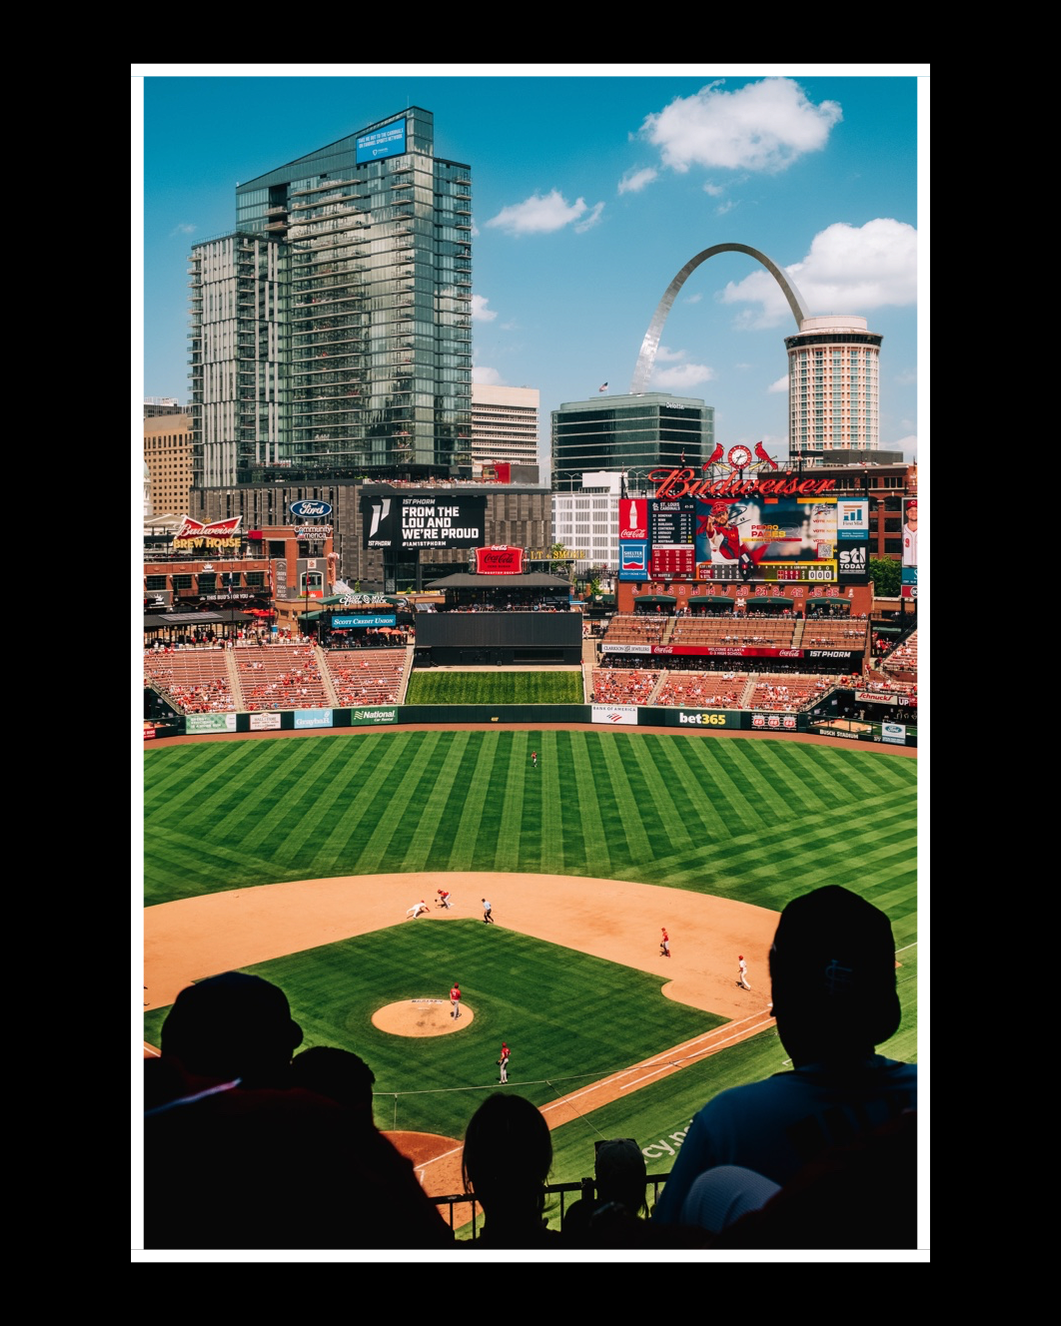
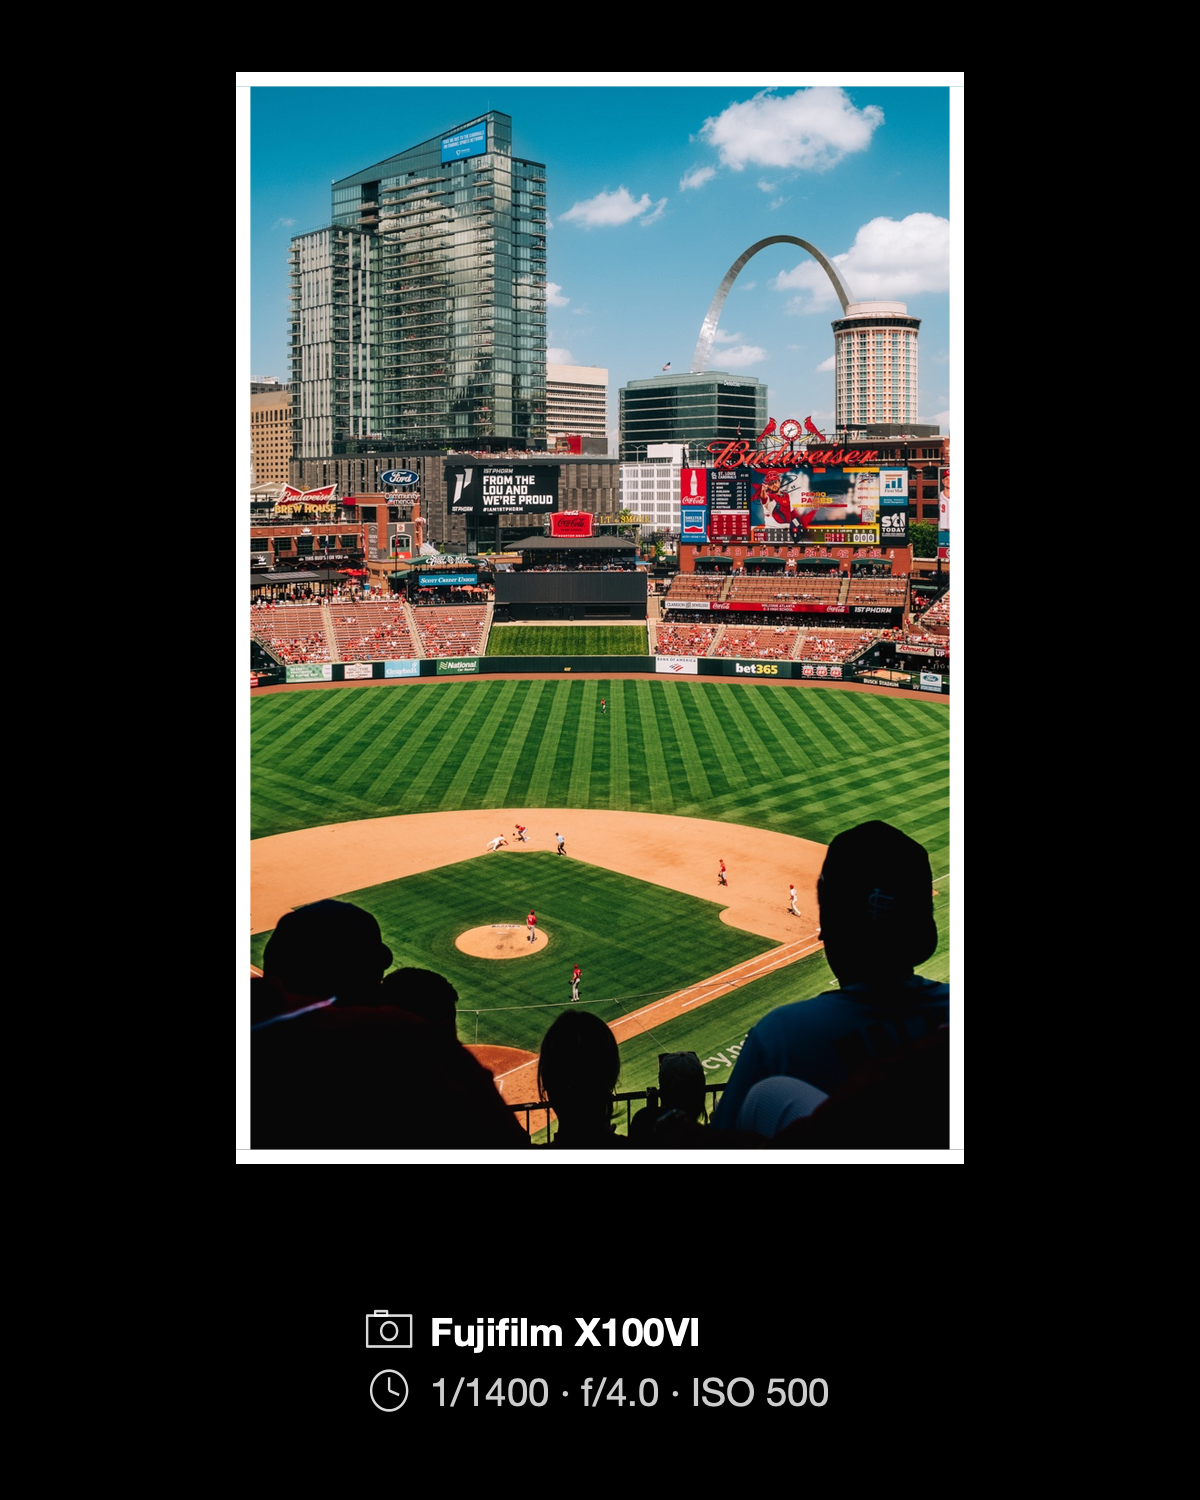
Restore Decks layout and add camera details to baseball example

diff --git a/site/decks/index.html b/site/decks/index.html
@@ -18,7 +18,7 @@
 <link rel="icon" href="/decks/assets/icon.png">
 <link rel="stylesheet" href="/assets/apps.css">
 <link rel="stylesheet" href="/assets/family.css">
-<link rel="stylesheet" href="/decks/assets/site.css?v=43-intro-details">
+<link rel="stylesheet" href="/decks/assets/site.css?v=43-gallery">
 </head>
 <body class="app-decks decks-home">
 <a class="skip-link" href="#main">Skip to content</a>
@@ -38,17 +38,13 @@
 <a class="primary-action" href="https://testflight.apple.com/join/SAMjeMy5">Try Decks on TestFlight</a>
 <p class="availability">Available in beta · iOS and iPadOS 18 or later</p>
 </div>
-<div class="intro-examples" aria-label="Photos with camera details made in Decks">
-<figure><a href="assets/build43-camera-intro-white.webp" aria-label="View autumn photograph with camera details at full size"><img src="assets/build43-camera-intro-white.webp" width="1200" height="1500" fetchpriority="high" alt="An autumn woodland photograph on white with its camera, lens, and exposure details below"></a></figure>
-<figure><a href="assets/build43-camera-intro-black.webp" aria-label="View espresso photograph with camera details at full size"><img src="assets/build43-camera-intro-black.webp" width="1200" height="1500" alt="An espresso photograph on black with a white border and its camera, lens, and exposure details below"></a></figure>
-</div>
 </section>
 
 <section id="frames" class="examples-section" aria-labelledby="frames-heading">
 <div class="section-heading"><h2 id="frames-heading">Choose a background and frame.</h2><p>Use white, black, or a blurred version of your photo. Add a border and choose its color and width.</p></div>
 <div class="frame-gallery">
 <figure><a href="assets/build43-frame-white.webp" aria-label="View white background at full size"><img src="assets/build43-frame-white.webp" width="1200" height="1500" fetchpriority="high" alt="An In-N-Out Burger restaurant centered on a white background"></a><figcaption>White background</figcaption></figure>
-<figure><a href="assets/build43-frame-black.webp" aria-label="View black background, white border at full size"><img src="assets/build43-frame-black.webp" width="1200" height="1500" loading="lazy" alt="A baseball game framed in white on a black background"></a><figcaption>Black background, white border</figcaption></figure>
+<figure><a href="assets/build43-frame-black.webp" aria-label="View black background, white border at full size"><img src="assets/build43-frame-black.webp" width="1200" height="1500" loading="lazy" alt="A baseball game framed in white on black with its Fujifilm X100VI camera and exposure details below"></a><figcaption>Black background, white border</figcaption></figure>
 <figure><a href="assets/build43-frame-blur.webp" aria-label="View blurred background, white border at full size"><img src="assets/build43-frame-blur.webp" width="1200" height="1500" loading="lazy" alt="A basketball hoop among autumn leaves with a white border over a blurred photographic background"></a><figcaption>Blurred background, white border</figcaption></figure>
 <figure><a href="assets/build43-frame-black-border.webp" aria-label="View white background, black border at full size"><img src="assets/build43-frame-black-border.webp" width="1200" height="1500" loading="lazy" alt="An espresso being prepared, framed with a black border on white"></a><figcaption>White background, black border</figcaption></figure>
 <figure><a href="assets/build43-frame-blur-pair.webp" aria-label="View two photos on a blurred background at full size"><img src="assets/build43-frame-blur-pair.webp" width="1200" height="1500" loading="lazy" alt="Two autumn woodland photographs with white borders on a blurred photographic background"></a><figcaption>Two photos on a blurred background</figcaption></figure>

diff --git a/scripts/render_decks_examples.swift b/scripts/render_decks_examples.swift
@@ -14,7 +14,7 @@ import IngestSocialKit
     let assets = try SocialAssetStore(root: output.appendingPathComponent("working-assets"))
     let renderer = SocialRenderService(assets: assets)
     var sources: [String: SocialSource] = [:]
-    for name in ["Burger", "Example40", "Example26", "Example29", "Example24", "Example27", "Example14", "Example25", "Example19", "Sunset", "Example37", "Example38", "Example03", "Example30"] {
+    for name in ["Burger", "Example40", "Example26", "Example29", "Example24", "Example27", "Example14", "Example25", "Example19", "Sunset", "Example37", "Example38"] {
       sources[name] = try assets.importImage(input.appendingPathComponent(name + ".jpg"))
       let source = sources[name]!
       print(name, source.exif?.values ?? [:])
@@ -46,7 +46,7 @@ import IngestSocialKit
       print("Rendered",name,image.width,image.height)
     }
     try await save("frame-white", project(["Burger"], background: .white))
-    try await save("frame-black", project(["Example40"], background: .black))
+    try await save("frame-black", project(["Example40"], background: .black, details: true))
     try await save("frame-blur", project(["Example26"], background: .blur))
     try await save("frame-black-border", project(["Example29"], background: .white, border: 0.018, color: .black))
     try await save("frame-blur-pair", project(["Example24", "Example27"], background: .blur))
@@ -70,7 +70,5 @@ import IngestSocialKit
     card.position = "Bottom"
     over.frames[0].metadataPlate = card
     try await save("camera-on-photo", over)
-    try await save("camera-intro-white", project(["Example03"], background: .white, details: true))
-    try await save("camera-intro-black", project(["Example30"], background: .black, details: true))
   }
 }

diff --git a/site/decks/assets/site.css b/site/decks/assets/site.css
@@ -61,8 +61,3 @@ body.app-decks{color-scheme:light;--bg:#f5f4f0;--surface:#eae8e2;--ink:#242422;-
 .camera-gallery .portrait-example{width:100%;max-width:390px;justify-self:center}
 .camera-section .section-heading p+p{margin-top:16px}
 @media(max-width:680px){.frame-gallery{grid-template-columns:repeat(2,minmax(0,1fr));gap:24px 16px}.camera-gallery{grid-template-columns:1fr;gap:28px}.camera-gallery .portrait-example{max-width:340px}}
-
-.intro-examples{grid-column:1/-1;display:grid;grid-template-columns:repeat(2,minmax(0,1fr));gap:28px;max-width:820px;width:100%;margin:42px auto 0}
-.intro-examples figure{margin:0;min-width:0}
-.intro-examples a,.intro-examples img{display:block;width:100%;height:auto}
-@media(max-width:680px){.intro-examples{grid-template-columns:1fr;max-width:340px;gap:20px;margin-top:8px}}

diff --git a/site/decks/assets/SOURCES.md b/site/decks/assets/SOURCES.md
@@ -14,10 +14,8 @@ Original photographs remain untouched in `~/Downloads/Decks/`; the app's importe
 
 The ten additional `build43-frame-*` and `build43-camera-*` images are real exports from the build 43 renderer, `IngestSocialKit` at native commit `1d05ac8`. `scripts/render_decks_examples.swift` records the exact settings. It runs in a temporary Swift executable with that package as its local dependency, using the imported Tutorial JPEGs and writing PNGs to a separate output directory. It does not change the app project or original photos.
 
-The six frame examples use distinct subjects: In-N-Out (`Burger.jpg`, original `fuji_5063.jpg`) on white; baseball (`Example40.jpg`, `fuji_5924.jpg`) on black with a white border; fall basketball (`Example26.jpg`, `DSCF3213.jpg`) on blur; espresso (`Example29.jpg`, `_DSC1199 1.jpg`) with a black border on white; two autumn woodland photographs (`Example24.jpg` / `Example27.jpg`, `DSCF3198.jpg` / `DSCF3219.jpg`) on blur; and black-and-white baseball (`Example14.jpg`, `7637-05.jpg`) with a film border on white. Film lettering describes the border style, not a claim about the photograph's capture stock.
+The six frame examples use distinct subjects: In-N-Out (`Burger.jpg`, original `fuji_5063.jpg`) on white; baseball (`Example40.jpg`, `fuji_5924.jpg`) on black with a white border and its actual camera details; fall basketball (`Example26.jpg`, `DSCF3213.jpg`) on blur; espresso (`Example29.jpg`, `_DSC1199 1.jpg`) with a black border on white; two autumn woodland photographs (`Example24.jpg` / `Example27.jpg`, `DSCF3198.jpg` / `DSCF3219.jpg`) on blur; and black-and-white baseball (`Example14.jpg`, `7637-05.jpg`) with a film border on white. Film lettering describes the border style, not a claim about the photograph's capture stock.
 
 Four camera examples use an autumn landscape (`Example25.jpg`, `DSCF3202.jpg`) beside its details, a rainbow (`Example19.jpg`, `DSC07096.jpg`) with an overlay, sunset details below the photo, and separate details on food and pizza (`Example37.jpg` / `Example38.jpg`, `fuji_5453.jpg` / `fuji_5458.jpg`). All settings come from actual EXIF through the native importer; none are invented. Each gallery photograph appears only once. The requested `_DSC1997` filename is absent from the supplied collection; `_DSC1199 1.jpg` is the available espresso photo.
 
 `build43-gallery.json` records original PNG hashes, lossless WebP hashes, and original dimensions. All decoded RGB pixels were verified against the PNG exports. Full-size image links let visitors inspect the designs and small camera text.
-
-Two additional opening examples show autumn woodland (`Example03.jpg`, original `09131.jpg`) on white and espresso (`Example30.jpg`, original `_DSC1228.jpg`) on black. Both include their actual imported camera details and use the same native build 43 renderer. These photographs are distinct from the examples farther down the page.
